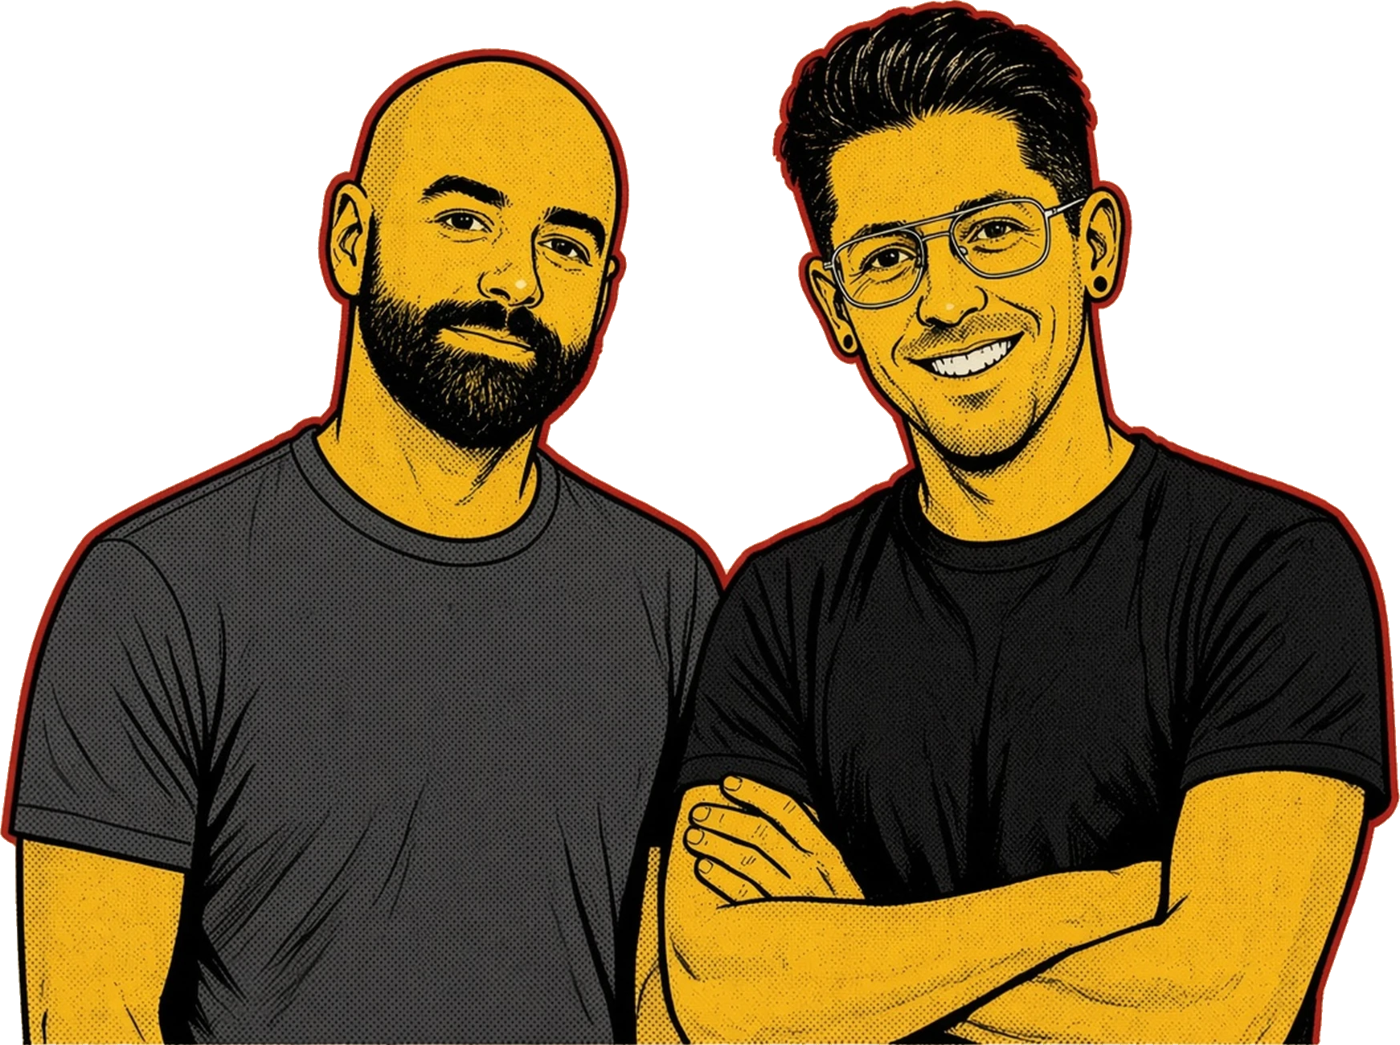
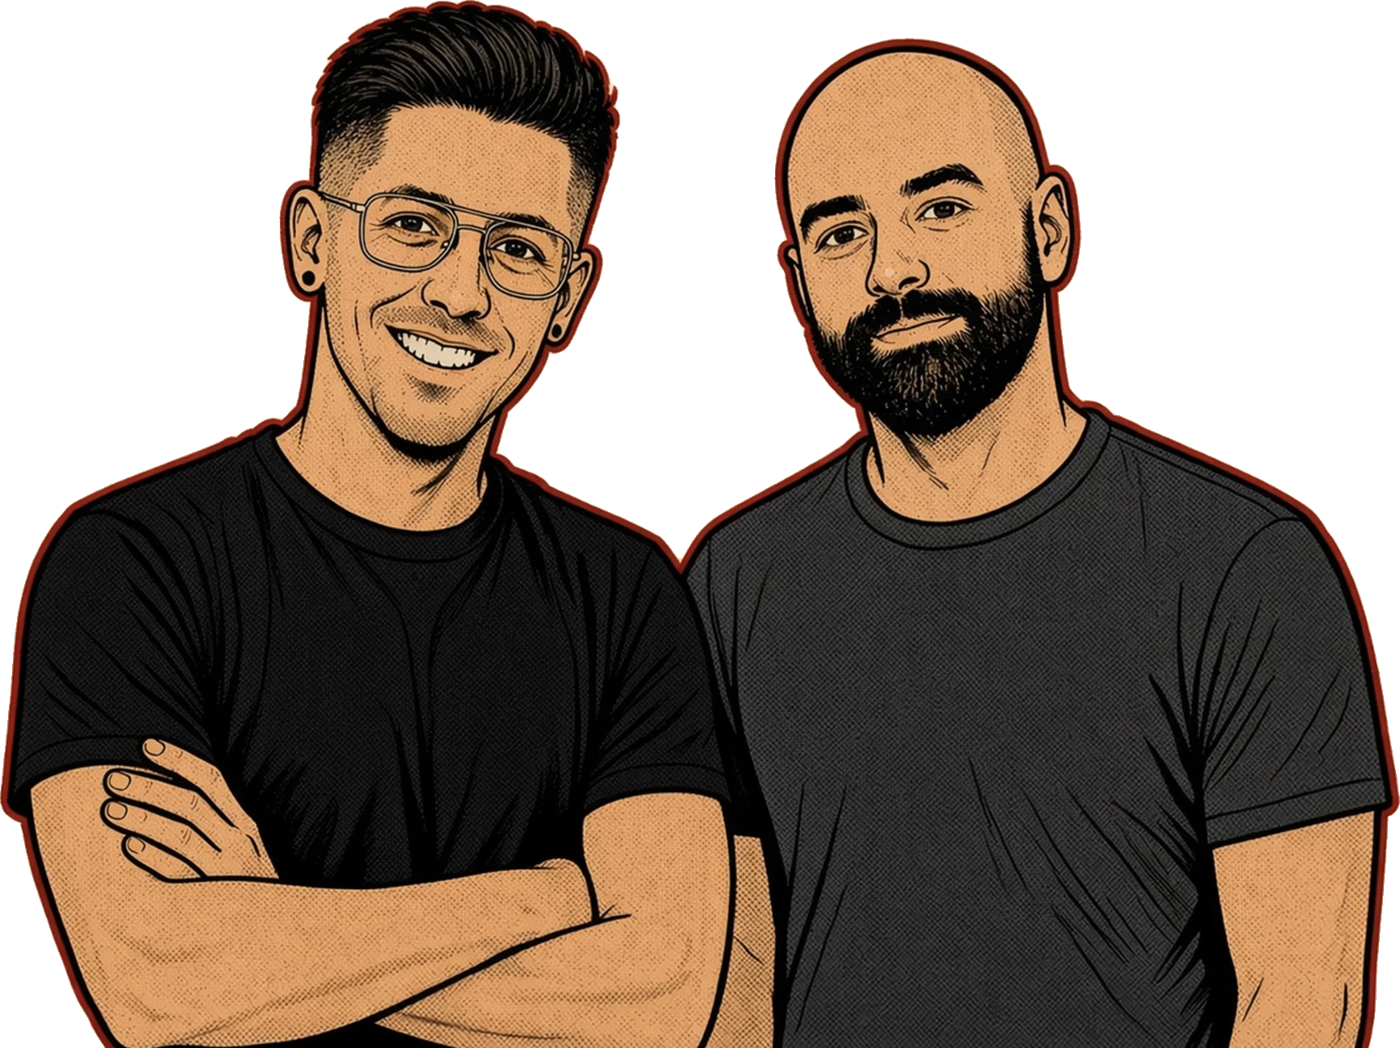
Hosts art v2: Duck left, Pat right, natural skin tones
Claude-Session: https://claude.ai/code/session_01SgoEQgzrgbohvY9Ho7h5Dy

diff --git a/index.php b/index.php
@@ -91,7 +91,7 @@ $desc = "Rock and roll's worst nights, and who to blame for them. Real stories, 
       <p class="kicker bang">A podcast about music's worst nights</p>
       <h1 class="metal">Defacing<br>the Music</h1>
       <p class="lede">Rock and roll's worst nights, and who to blame for them. Real stories, told like a friend at the bar who actually went down the rabbit hole.</p>
-      <img class="hosts-art" src="assets/hosts.webp" srcset="assets/hosts-800.webp 800w, assets/hosts.webp 1400w" sizes="(max-width: 720px) 92vw, 46vw" width="1400" height="1045" alt="Your hosts: Pat, bald with a full beard, and Duck, slicked-back hair, aviator glasses and ear gauges, arms crossed" fetchpriority="high">
+      <img class="hosts-art" src="assets/hosts.webp" srcset="assets/hosts-800.webp 800w, assets/hosts.webp 1400w" sizes="(max-width: 720px) 92vw, 46vw" width="1400" height="1045" alt="Your hosts: Duck, slicked-back hair, aviator glasses and ear gauges, arms crossed, and Pat, bald with a full beard" fetchpriority="high">
     </div>
     <div class="np-side">
       <p class="np-tag bang">Now playing · EP <?= $h(str_pad($latest['num'], 2, '0', STR_PAD_LEFT)) ?></p>

diff --git a/CLAUDE.md b/CLAUDE.md
@@ -21,7 +21,7 @@ Live at https://defacingthemusic.com behind Cloudflare (SSL mode Flexible: visit
 ## Brand ("Gig Poster", chosen by Dillon Nov 2026; the purple/teal/pink "Sea of Thieves / High Seas" look was rejected, never use it)
 - Tone: aggressive but fun and cartoony, rock/metal gig-poster energy. Not cutesy, not graffiti, nothing Ozzy/bat-themed in branding.
 - Look: black base, red accents, cream cards, thick black outlines, offset cartoon drop shadows, slight rotations. Yellow is the accent, not the background: Duck (Nov 20) found the big yellow halftone hero "a bit much" (too much yellow, too many dots), so the home page top is now plain cream (no dots) with black type, the red shadow, and the hosts art (Nov 20). Use the dot pattern sparingly.
-- Hosts art: Duck and Pat drawn in the gig-poster style (made in Grok from their photos, Nov 20). Web versions `assets/hosts.webp` (1400) and `assets/hosts-800.webp`; master PNG `brand/hosts/duck-and-pat-1400.png`. Pat is on the left (bald, beard), Duck on the right (slicked hair, aviators, gauges, arms crossed).
+- Hosts art: Duck and Pat drawn in the gig-poster style (made in Grok from their photos, Nov 20). Web versions `assets/hosts.webp` (1400) and `assets/hosts-800.webp`; master PNG `brand/hosts/duck-and-pat-1400.png`. Second version (Nov 20, natural skin tones): Duck on the left (slicked hair, aviators, gauges, arms crossed), Pat on the right (bald, beard).
 - Palette: black `#111111`, yellow `#FFD21F`, red `#E4251B`, cream `#F2E8D5`; illustration extras `#FF8A00`, `#FFE23B`.
 - Fonts (Google Fonts): Metal Mania (wordmark/headings), Bangers (labels, buttons, stickers), Archivo (body).
 - `index.php` + `assets/site.css` are the reference implementation. Reuse their classes for new pages.
